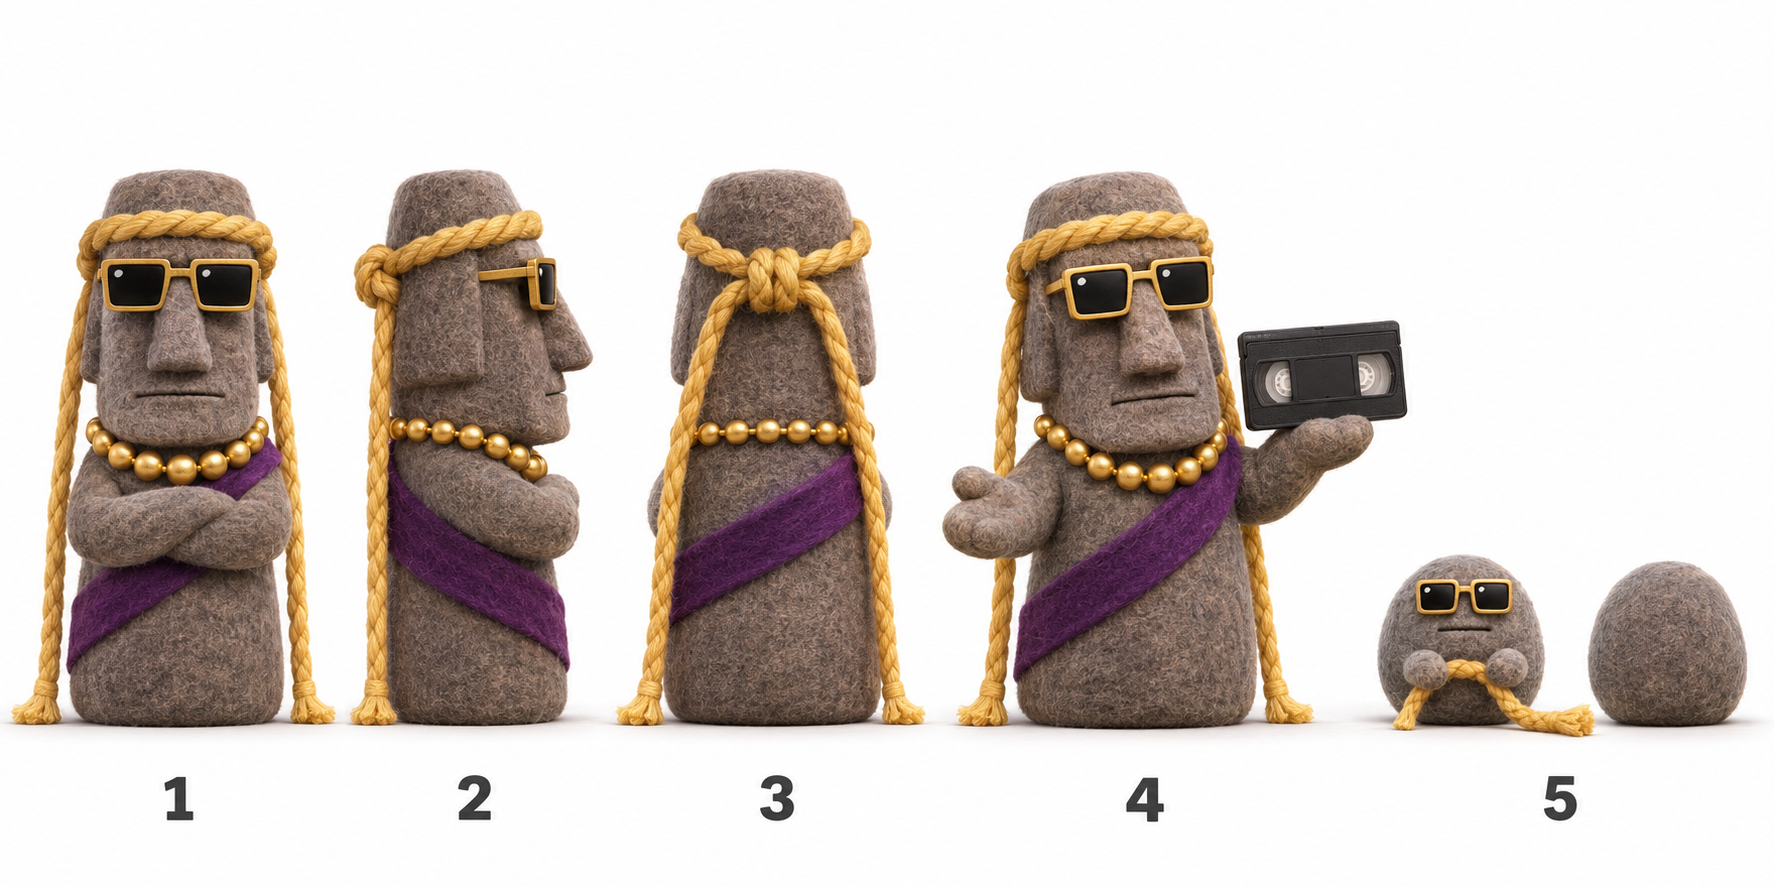
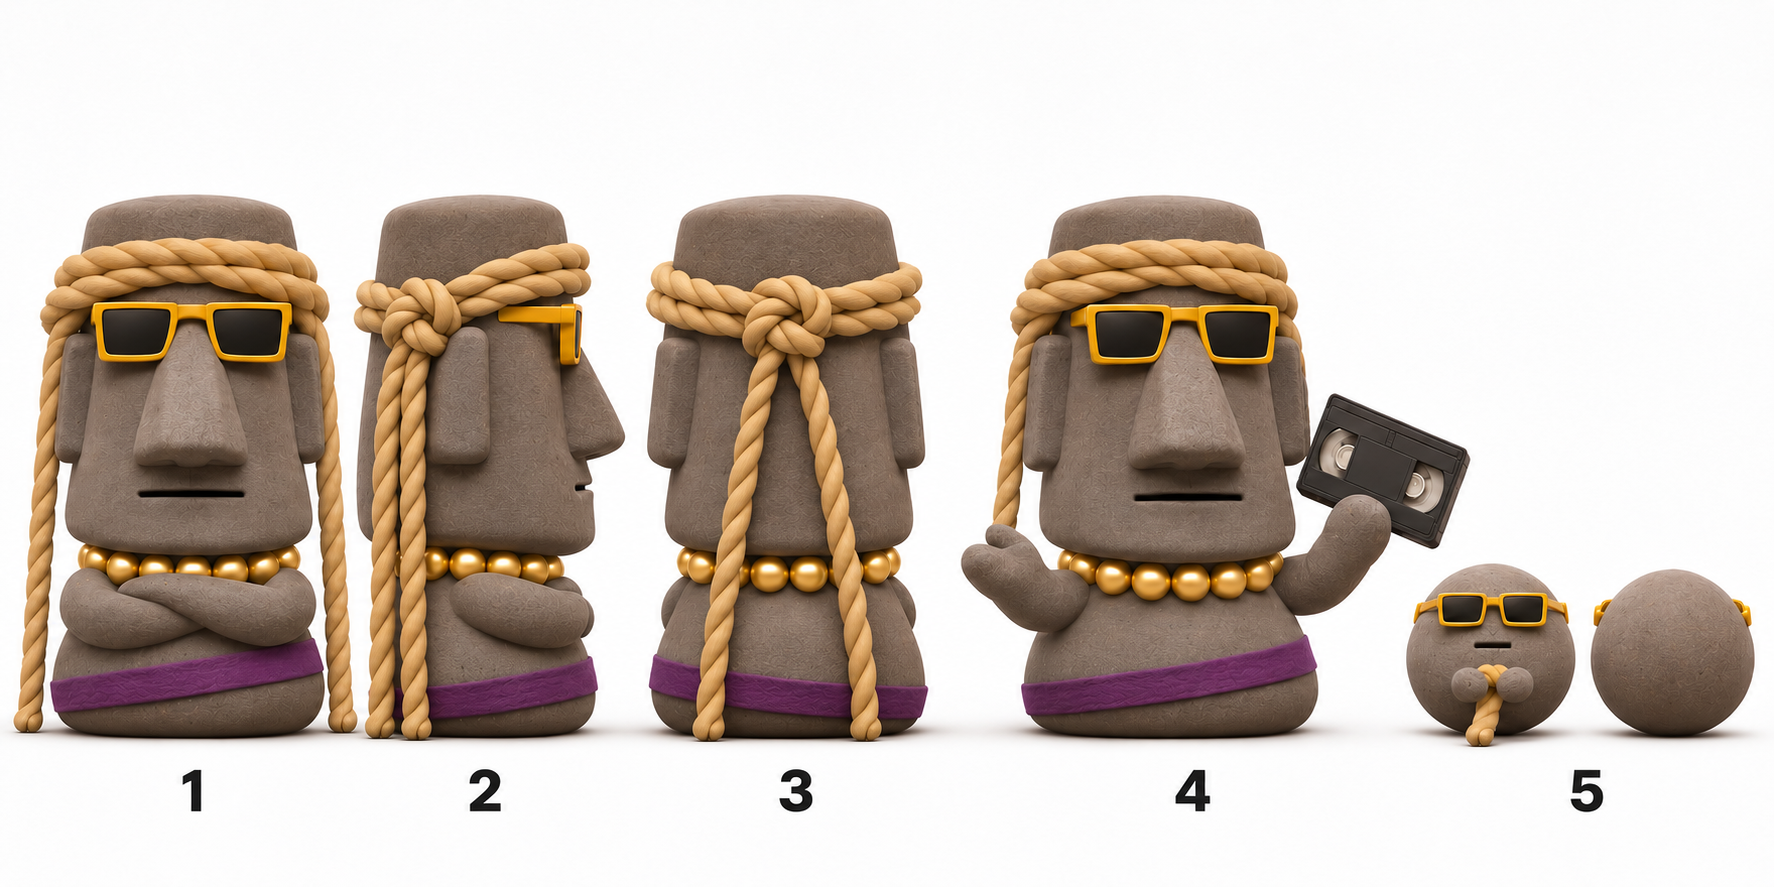
Redraw the Buzzyama model sheet to match the chosen picture: smooth stone, straw rope, big head

diff --git a/godot/docs/art/image_prompts.md b/godot/docs/art/image_prompts.md
@@ -134,3 +134,6 @@
 - `buzzyama_sheet.png`：1 前／2 横／3 後ろ（縄の結び目）／4 腕を開いてビデオテープ／5 小石（前・後ろ）
 - 見本：`buzzyama_moai_pick.png`（12回目の絵から 3 だけ切り出し）と元絵 09-12
 - 選んだ絵との違い：毛羽が強い・縄が黄色い三つ編みになった・頭に対して胴が長い。モデルを作る時は、12回目の絵の比率（頭が大きい・毛羽なし）に寄せる
+- 描き直し（同日、ユーザー「先に絵を直す」）：1枚目は `buzzyama_sheet_v1.png` に残した。`buzzyama_sheet.png` は、なめらかな面・砂色のより縄・顔が背の半分以上、に直した版
+  - 効いた書き方：選んだ絵を「正」、1枚目を「並べ方だけ正しい」として両方付け、違う所を SURFACE / ROPE / PROPORTIONS の3項目で名指しした
+  - まだ違う所：胴がかなり短い・紫の布が斜めでなく腰の横帯・縄が二重巻き
